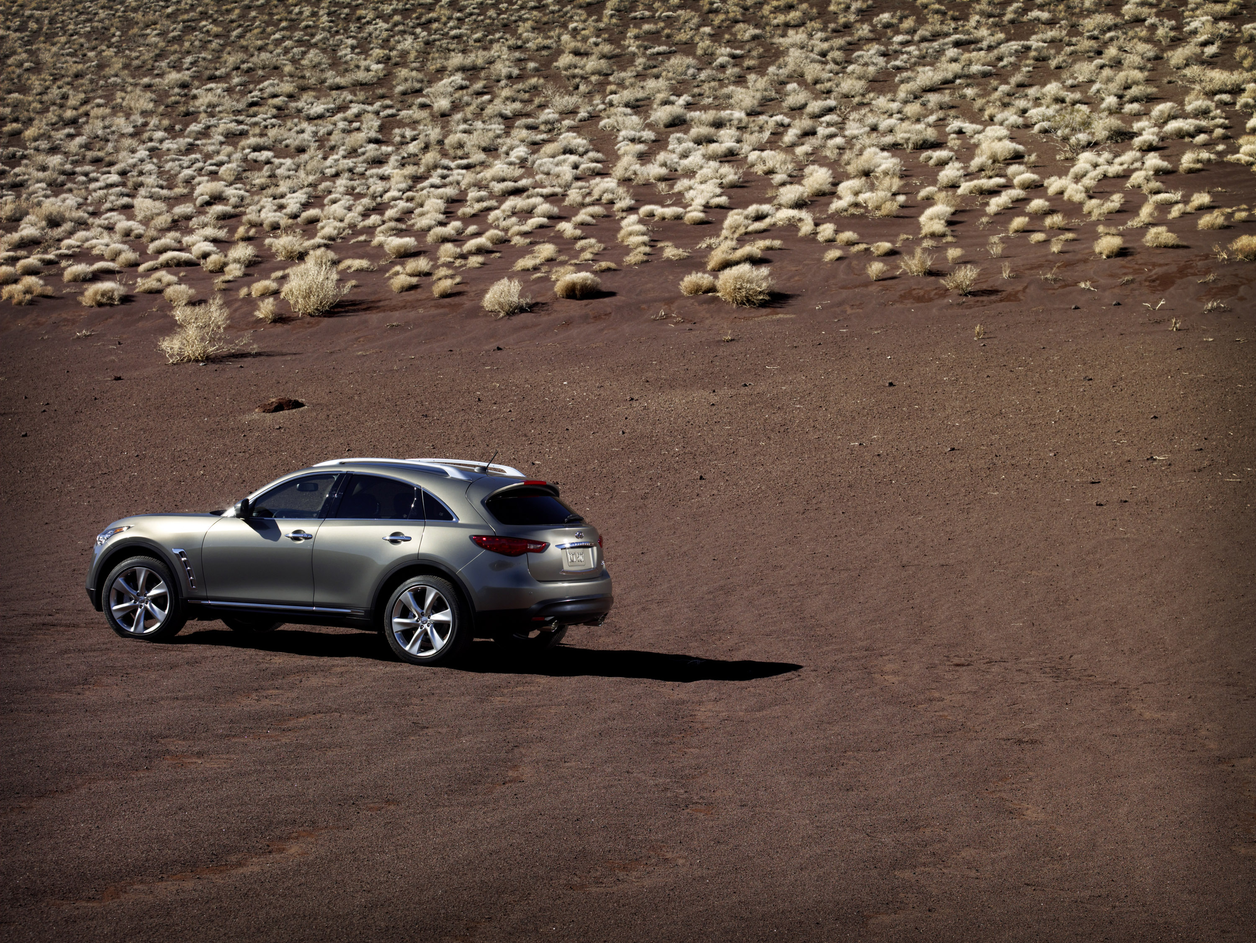
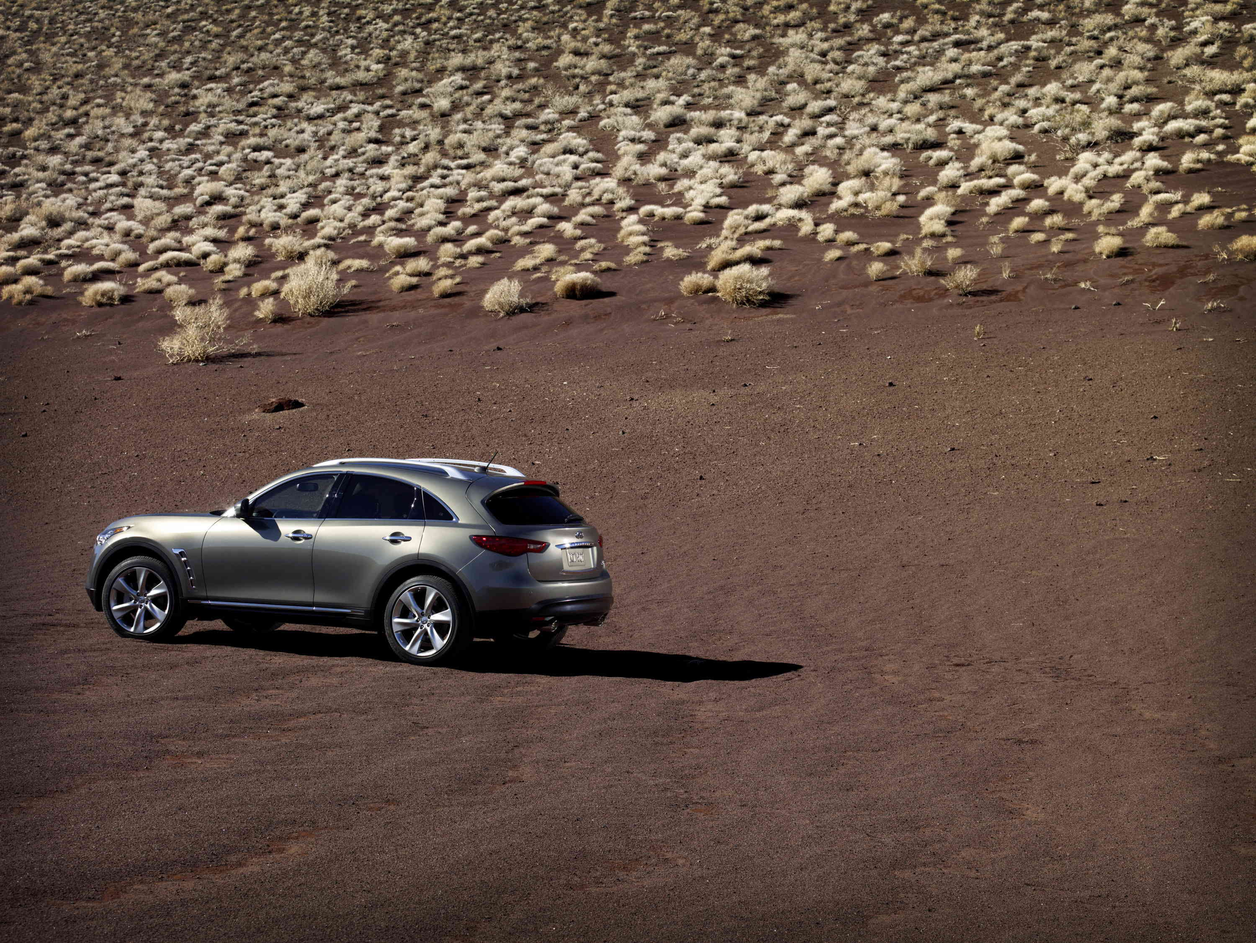
added images optimization

diff --git a/css/specials.css b/css/specials.css
@@ -56,7 +56,7 @@
 .special-car3 {
 
     flex-direction: column-reverse;
-    background: url("../images/special-car/spec-car-3.jpg") no-repeat center;
+    background: url("../images/special-car/spec-car-4.1.jpg") no-repeat center;
     background-position-x: 58%;
     background-position-y: 83%
 
